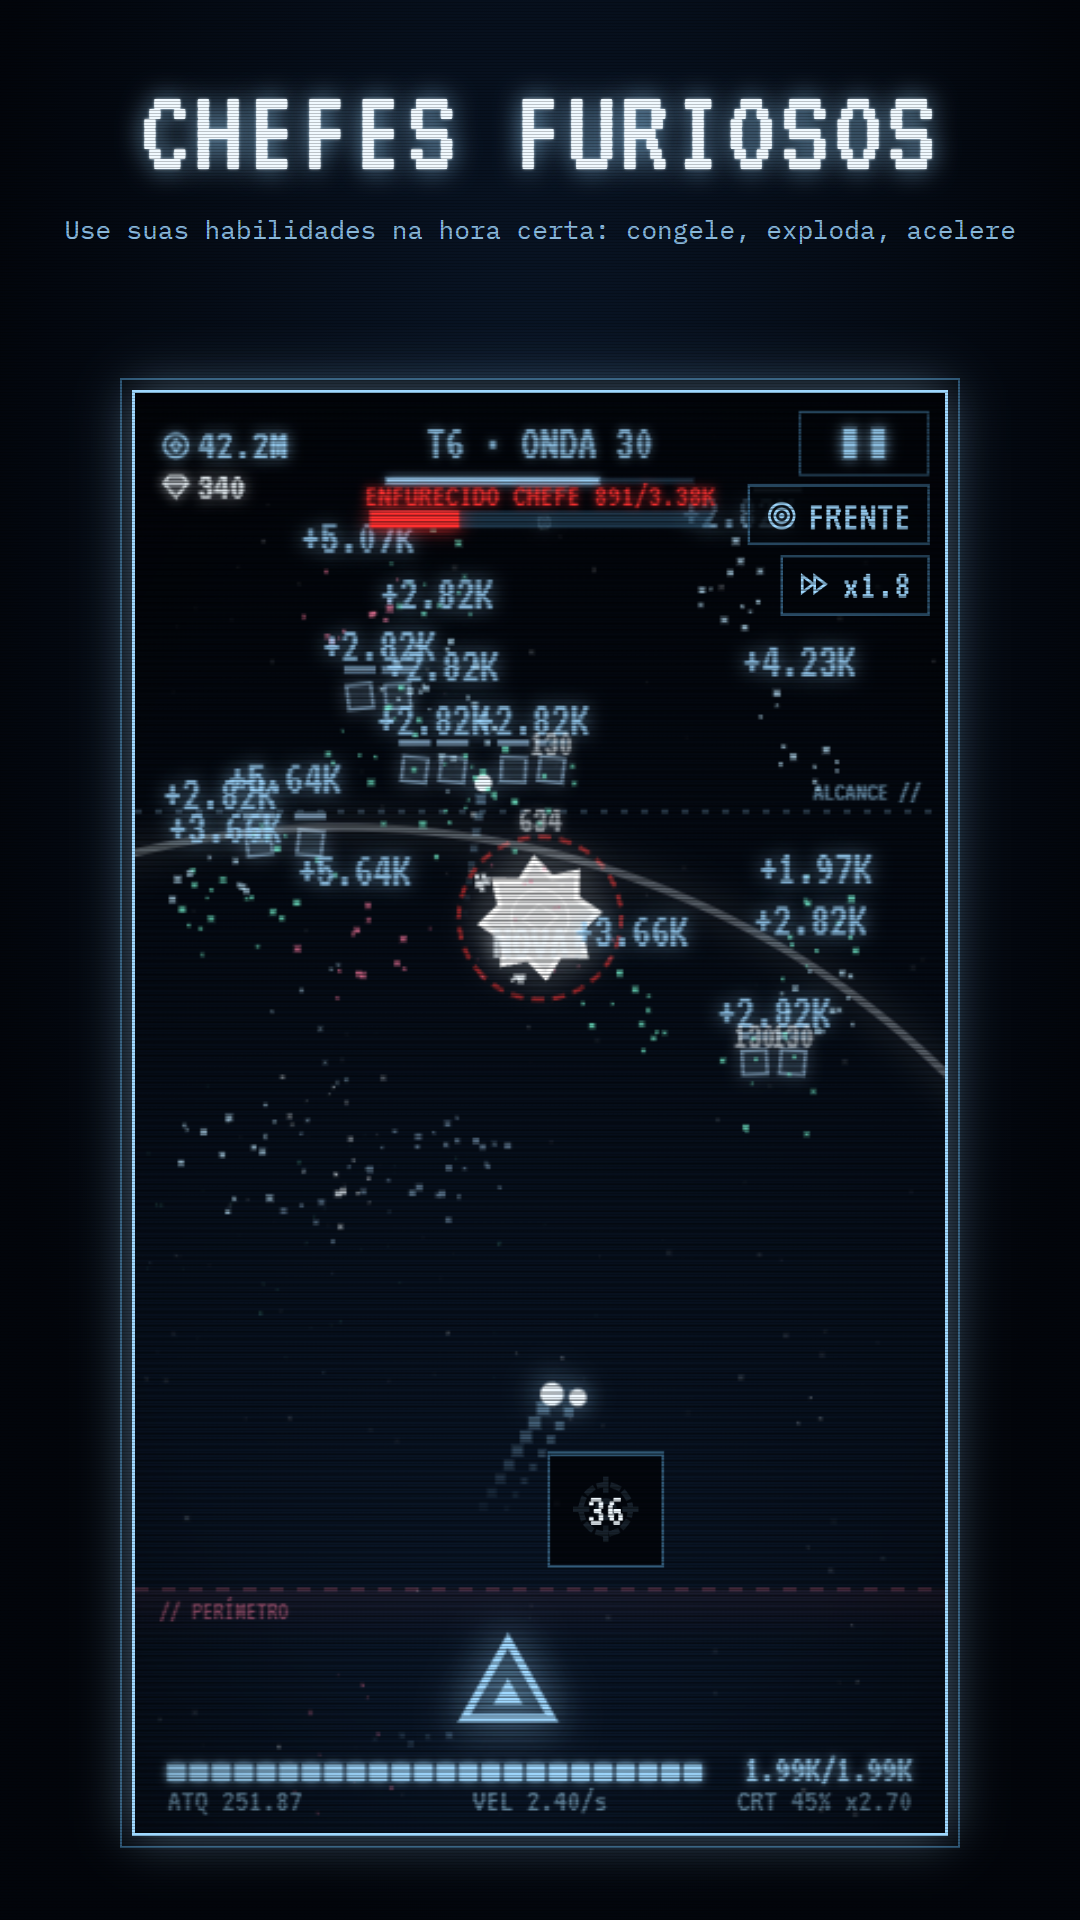
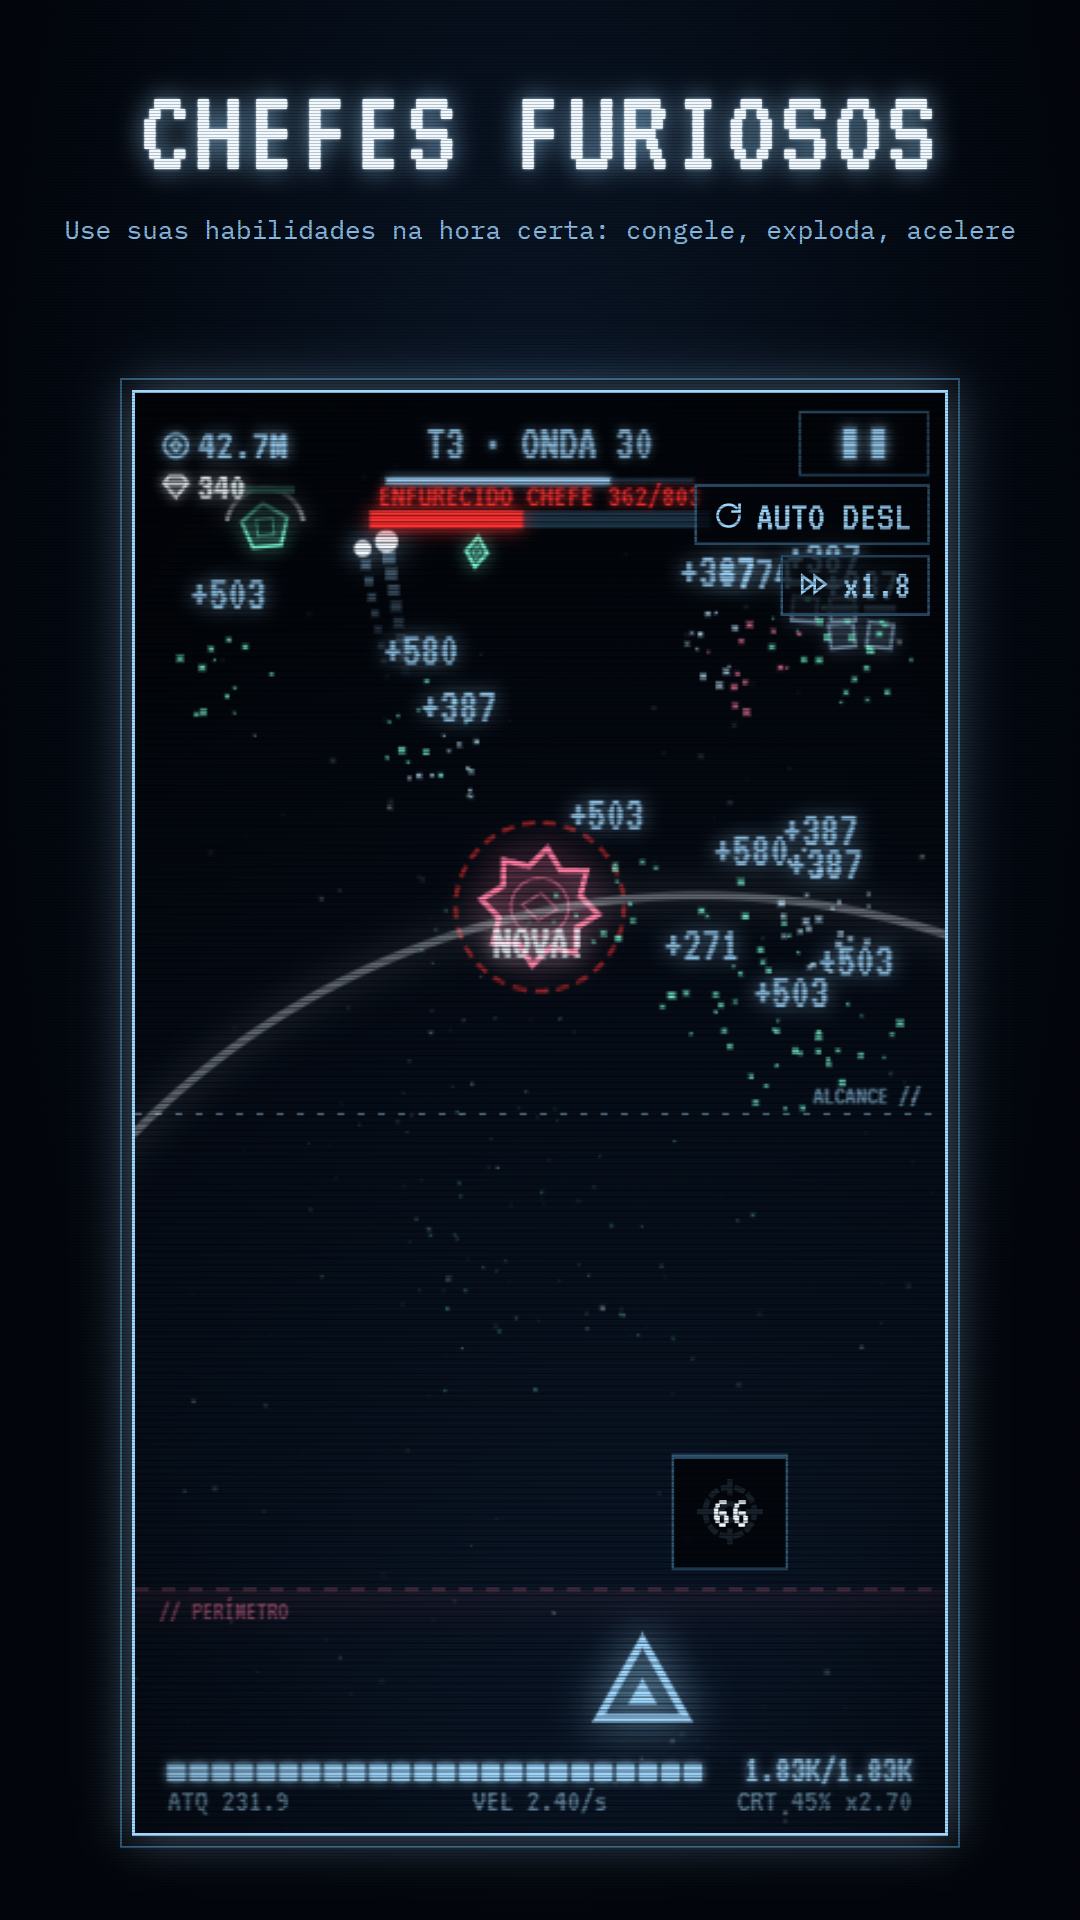
Store art for 0.7.0: shots staged at Tier 3 (Tier 6 is far too hard after the tier rework), boss kept alive for its shot; listing: parry instead of dodge, AUTO RETRY instead of the removed target priority

diff --git a/tools/make-store-art.js b/tools/make-store-art.js
@@ -15,8 +15,8 @@ const LANGS=process.argv.slice(2).length?process.argv.slice(2):Object.keys(TEXT)
 const FONT_CSS=(fs.readFileSync(path.join(root,'index.html'),'utf8').match(/@font-face\{[^}]+\}/g)||[]).join('\n');
 const HINTS={menu:1,start:1,breach:1,drops:1,hud:1,shop:1,tattoo:1,quests:1,tier:1,target:1,active:1};
 // a mid-game player: a few tiers in, some tattoos, an active build
-const SAVE={coins:4.2e7,gems:340,tier:6,tierBest:{1:78,2:62,3:51,4:44,5:36,6:21},tatSlots:4,themesOwned:['ice'],
-  perm:{damage:520,fireRate:70,maxHp:480,regen:380,defense:180,thorns:90,critChance:90,critMult:60,multishot:70,bounce:40,range:35,
+const SAVE={coins:4.2e7,gems:340,tier:3,tierBest:{1:80,2:66,3:38},tatSlots:4,themesOwned:['ice'],
+  perm:{damage:520,fireRate:70,maxHp:480,regen:380,defense:180,thorns:90,critChance:90,critMult:60,multishot:70,bounce:40,cooldown:30,
     pierce:20,coinMult:150,lootChance:60,bounty:40,gameSpeed:8,offline:10},
   tatCol:{attack_power:{lv:5,copies:2},twin:{lv:3,copies:1},nova:{lv:4,copies:0},arc:{lv:2,copies:3},crit_mult:{lv:4,copies:1},
     max_hp:{lv:5,copies:0},regen:{lv:3,copies:2},coin_mult:{lv:4,copies:1},frost:{lv:2,copies:0},aegis:{lv:1,copies:0},thorns:{lv:3,copies:0}},
@@ -50,9 +50,9 @@ const THEME_FAN=['amber','green','pink'];   // left, centre, right on the themes
     await seed();await p.click('#mPlay');await clean();await p.evaluate(()=>{waveNum=24;waveTimer=.01;});
     await sleep(6000);await waitField(14,15000);await clean();await sleep(350);await shot('run');
     await p.evaluate(()=>{waveNum=29;waveTimer=.01;});
-    await p.evaluate(()=>new Promise(r=>{const t0=Date.now(),f=()=>{pickups=[];const bo=enemies.find(e=>e.boss);if((bo&&bo.y>GH*.3)||Date.now()-t0>20000)r();else setTimeout(f,100);};f();}));
+    await p.evaluate(()=>new Promise(r=>{const t0=Date.now(),f=()=>{pickups=[];const bo=enemies.find(e=>e.boss);if(bo){bo.hp=bo.maxHp;waveTimer=Math.max(waveTimer,10);}if((bo&&bo.y>GH*.3)||Date.now()-t0>20000)r();else setTimeout(f,100);};f();}));
     // the boss at half health, caught in a NOVA blast
-    await p.evaluate(()=>{const bo=enemies.find(e=>e.boss);if(bo){bo.hp=bo.maxHp*.45;}actCD={};});await sleep(700);await clean();
+    await p.evaluate(()=>{const bo=enemies.find(e=>e.boss);if(bo){bo.hp=bo.maxHp*100;}actCD={};waveTimer=Math.max(waveTimer,10);});await sleep(700);await clean();
     // the blast must not kill the boss: put its health back right after
     await p.evaluate(()=>{const bo=enemies.find(e=>e.boss);if(bo)bo.hp=bo.maxHp*100;useActive('nova');if(bo)bo.hp=bo.maxHp*.45;textParticles=textParticles.slice(-1);});
     await p.evaluate(()=>{const t=$('toast');t.className='';$('hint').classList.remove('show');});

diff --git a/tools/store-text.js b/tools/store-text.js
@@ -6,7 +6,7 @@ module.exports={
     boss:  ['ENRAGED BOSSES','Time your abilities: freeze, blast, overdrive'],
     gacha: ['INK 31 TATTOOS','Fuse duplicates up to level 7'],
     tattoo:['BUILD IT YOUR WAY','Crits, ricochet, lightning, thorns: every build works'],
-    shop:  ['UPGRADE EVERYTHING','Damage, fire rate, armor, dodge and more'],
+    shop:  ['UPGRADE EVERYTHING','Damage, fire rate, armor, parry and more'],
     weekly:['NEW CHALLENGE EVERY WEEK','Rule-changing mutators and gem rewards'],
     themes:['12 RETRO THEMES','Scanlines, phosphor glow, smooth on old phones'],
     end:   'PLAY ANYWHERE · OFFLINE OK',
@@ -16,7 +16,7 @@ module.exports={
     boss:  ['ÖFKELİ BOSSLAR','Yeteneklerini zamanla: dondur, patlat, hızlan'],
     gacha: ['31 DÖVME ÇAĞIR','Kopyaları birleştir, 7. seviyeye kadar yükselt'],
     tattoo:['TARZINI SEN SEÇ','Kritik, sekme, şimşek, diken: her build işe yarar'],
-    shop:  ['HER ŞEYİ GELİŞTİR','Hasar, atış hızı, zırh, kaçınma ve fazlası'],
+    shop:  ['HER ŞEYİ GELİŞTİR','Hasar, atış hızı, zırh, savuşturma ve fazlası'],
     weekly:['HER HAFTA YENİ MEYDAN OKUMA','Kuralları değiştiren modlar ve elmas ödülleri'],
     themes:['12 RETRO TEMA','Tarama çizgileri, fosfor parıltısı, eski telefonlarda akıcı'],
     end:   'HER YERDE · İNTERNETSİZ OYNA',
@@ -26,7 +26,7 @@ module.exports={
     boss:  ['JEFES FURIOSOS','Usa tus habilidades a tiempo: congela, revienta, acelera'],
     gacha: ['INVOCA 31 TATUAJES','Fusiona duplicados hasta el nivel 7'],
     tattoo:['CREA TU BUILD','Críticos, rebotes, rayos, espinas: todo build funciona'],
-    shop:  ['MEJÓRALO TODO','Daño, cadencia, blindaje, esquiva y más'],
+    shop:  ['MEJÓRALO TODO','Daño, cadencia, blindaje, parada y más'],
     weekly:['UN RETO NUEVO CADA SEMANA','Mutadores que cambian las reglas y premios en gemas'],
     themes:['12 TEMAS RETRO','Scanlines, brillo de fósforo, fluido en móviles viejos'],
     end:   'JUEGA DONDE SEA · OFFLINE',
@@ -36,7 +36,7 @@ module.exports={
     boss:  ['CHEFES FURIOSOS','Use suas habilidades na hora certa: congele, exploda, acelere'],
     gacha: ['INVOQUE 31 TATUAGENS','Funda duplicatas até o nível 7'],
     tattoo:['MONTE SUA BUILD','Críticos, ricochete, raios, espinhos: toda build funciona'],
-    shop:  ['MELHORE TUDO','Dano, cadência, armadura, esquiva e mais'],
+    shop:  ['MELHORE TUDO','Dano, cadência, armadura, aparo e mais'],
     weekly:['UM DESAFIO NOVO POR SEMANA','Mutadores que mudam as regras e prêmios em gemas'],
     themes:['12 TEMAS RETRÔ','Scanlines, brilho de fósforo, leve em celulares antigos'],
     end:   'JOGUE ONDE QUISER · OFFLINE',

diff --git a/store/listing.md b/store/listing.md
@@ -29,7 +29,7 @@ Idle tower defense on a retro CRT terminal: you are the last vertex, one glowing
 Your triangle aims and fires on its own; you decide how it grows. Play actively or put the phone down and let it run.
 
 ▸ BUILD IT YOUR WAY
-Pour coins into permanent upgrades: damage, fire rate, crits, multishot, ricochet, pierce, armor, thorns, regen, dodge, slow, knockback and more. A wall of thorns and armor, a crit cannon, a swarm of bouncing bullets — every build is viable.
+Pour coins into permanent upgrades: damage, fire rate, crits, multishot, ricochet, pierce, armor, thorns, regen, parry, slow, knockback and more. A wall of thorns and armor, a crit cannon, a swarm of bouncing bullets — every build is viable.
 
 ▸ TATTOOS
 Ink 31 tattoos across four rarities and fuse duplicates up to level 7. Passive tattoos shape your build; active ones add a button to the battle: freeze the field, blast every enemy, overdrive your fire rate, turn kills into gold or throw bombs (logic, goo, virus) exactly where you tap; others shatter frozen enemies into chain reactions. The odds are shown on screen and an epic is guaranteed within 50 summons.
@@ -41,7 +41,7 @@ Fight through 30 tiers of rising danger: runners, tanks, splitters, shielded war
 Every week brings two new rule-changing mutators — horde, glass cannon, boss rush, titans and more — with gem rewards for the waves you reach.
 
 ▸ PLAY ACTIVE OR IDLE
-Choose your target priority, speed up the game, time your abilities — or walk away. Idle income keeps earning while you're away, quests refresh through the day and achievements reward every milestone.
+Speed up the game, time your abilities — or switch on AUTO RETRY and walk away. Idle income keeps earning while you're away, quests refresh through the day and achievements reward every milestone.
 
 ▸ RETRO TERMINAL LOOK
 Scanlines, phosphor glow and 12 color themes, from ice blue to amber, green P1 and hot pink. Runs smoothly on older phones with three graphics levels, and works offline.
@@ -70,7 +70,7 @@ Retro bir CRT terminalinde idle kule savunma: sen son köşesin, ekranın altın
 Üçgenin kendi kendine nişan alıp ateş eder; nasıl güçleneceğine sen karar verirsin. İster aktif oyna, ister telefonu bırak, oyun kendi aksın.
 
 ▸ TARZINI SEN SEÇ
-Altınlarını kalıcı geliştirmelere yatır: hasar, atış hızı, kritik, çoklu atış, sekme, delme, zırh, diken, can yenileme, kaçınma, yavaşlatma, geri itme ve fazlası. Diken ve zırhtan bir duvar, bir kritik topu, seken mermi sürüsü — her build işe yarar.
+Altınlarını kalıcı geliştirmelere yatır: hasar, atış hızı, kritik, çoklu atış, sekme, delme, zırh, diken, can yenileme, savuşturma, yavaşlatma, geri itme ve fazlası. Diken ve zırhtan bir duvar, bir kritik topu, seken mermi sürüsü — her build işe yarar.
 
 ▸ DÖVMELER
 Dört nadirlikte 31 dövme çağır, kopyaları birleştirip 7. seviyeye kadar yükselt. Pasif dövmeler build'ini şekillendirir; aktif olanlar savaşa bir buton ekler: sahayı dondur, tüm düşmanları patlat, atış hızını uçur, öldürmeleri altına çevir ya da dokunduğun yere bomba at (mantık, çamur, virüs). Bazıları donmuş düşmanları zincirleme patlamalarla parçalar. Oranlar ekranda yazar ve 50 çağırma içinde bir epik garantidir.
@@ -82,7 +82,7 @@ Giderek zorlaşan 30 tier boyunca savaş: koşucular, tanklar, bölünenler, kal
 Her hafta kuralları değiştiren iki yeni mod gelir — sürü, cam top, boss akını, devler ve fazlası — ulaştığın dalgalara göre elmas ödülleriyle.
 
 ▸ AKTİF YA DA IDLE
-Hedef önceliğini seç, oyunu hızlandır, yeteneklerini zamanla — ya da bırak gitsin. Sen yokken idle gelir birikmeye devam eder, görevler gün boyunca yenilenir, başarımlar her adımı ödüllendirir.
+Oyunu hızlandır, yeteneklerini zamanla — ya da OTO TEKRAR'ı aç ve bırak gitsin. Sen yokken idle gelir birikmeye devam eder, görevler gün boyunca yenilenir, başarımlar her adımı ödüllendirir.
 
 ▸ RETRO TERMİNAL GÖRÜNÜMÜ
 Tarama çizgileri, fosfor parıltısı ve buz mavisinden kehribara, yeşil P1'den neon pembeye 12 renk teması. Üç grafik seviyesiyle eski telefonlarda da akıcı çalışır, internetsiz oynanır.
@@ -111,7 +111,7 @@ Defensa de torres idle en una terminal CRT retro: eres el último vértice, un t
 Tu triángulo apunta y dispara solo; tú decides cómo crece. Juega de forma activa o deja el móvil y que siga solo.
 
 ▸ CREA TU BUILD
-Invierte monedas en mejoras permanentes: daño, cadencia, críticos, disparo múltiple, rebote, perforación, blindaje, espinas, regeneración, esquiva, ralentización, empuje y más. Un muro de espinas y blindaje, un cañón de críticos, un enjambre de balas que rebotan: todo build funciona.
+Invierte monedas en mejoras permanentes: daño, cadencia, críticos, disparo múltiple, rebote, perforación, blindaje, espinas, regeneración, parada, ralentización, empuje y más. Un muro de espinas y blindaje, un cañón de críticos, un enjambre de balas que rebotan: todo build funciona.
 
 ▸ TATUAJES
 Invoca 31 tatuajes de cuatro rarezas y fusiona duplicados hasta el nivel 7. Los pasivos dan forma a tu build; los activos añaden un botón a la batalla: congela el campo, revienta a todos los enemigos, dispara a toda velocidad, convierte las bajas en oro o lanza bombas (lógica, viscosa, virus) justo donde toques. Otros hacen estallar a los enemigos congelados en reacciones en cadena. Las probabilidades se muestran en pantalla y hay un épico garantizado en 50 invocaciones.
@@ -123,7 +123,7 @@ Lucha a través de 30 tiers cada vez más peligrosos: corredores, tanques, divis
 Cada semana llegan dos mutadores nuevos que cambian las reglas — horda, cañón de cristal, oleada de jefes, titanes y más — con premios en gemas según la oleada que alcances.
 
 ▸ ACTIVO O IDLE
-Elige la prioridad de objetivo, acelera el juego, usa tus habilidades en el momento justo — o vete. Los ingresos idle siguen sumando mientras no estás, las misiones se renuevan durante el día y los logros premian cada hito.
+Acelera el juego, usa tus habilidades en el momento justo — o activa REINTENTO AUTO y vete. Los ingresos idle siguen sumando mientras no estás, las misiones se renuevan durante el día y los logros premian cada hito.
 
 ▸ ESTILO DE TERMINAL RETRO
 Scanlines, brillo de fósforo y 12 temas de color, del azul hielo al ámbar, el verde P1 y el rosa neón. Funciona fluido en móviles antiguos con tres niveles gráficos y se juega sin conexión.
@@ -152,7 +152,7 @@ Defesa de torre idle num terminal CRT retrô: você é o último vértice, um tr
 Seu triângulo mira e atira sozinho; você decide como ele cresce. Jogue de forma ativa ou largue o celular e deixe rolar.
 
 ▸ MONTE SUA BUILD
-Invista moedas em melhorias permanentes: dano, cadência, críticos, tiro múltiplo, ricochete, perfuração, armadura, espinhos, regeneração, esquiva, lentidão, empurrão e mais. Um muro de espinhos e armadura, um canhão de críticos, um enxame de balas quicando: toda build funciona.
+Invista moedas em melhorias permanentes: dano, cadência, críticos, tiro múltiplo, ricochete, perfuração, armadura, espinhos, regeneração, aparo, lentidão, empurrão e mais. Um muro de espinhos e armadura, um canhão de críticos, um enxame de balas quicando: toda build funciona.
 
 ▸ TATUAGENS
 Invoque 31 tatuagens de quatro raridades e funda duplicatas até o nível 7. As passivas moldam sua build; as ativas colocam um botão na batalha: congele o campo, exploda todos os inimigos, acelere seus disparos, transforme abates em ouro ou lance bombas (lógica, viscosa, vírus) bem onde você tocar. Outras estilhaçam inimigos congelados em reações em cadeia. As chances aparecem na tela e uma épica é garantida em até 50 invocações.
@@ -164,7 +164,7 @@ Lute por 30 tiers cada vez mais perigosos: corredores, tanques, divisores, guard
 Toda semana chegam dois mutadores novos que mudam as regras — horda, canhão de vidro, rush de chefes, titãs e mais — com prêmios em gemas pelas ondas que você alcançar.
 
 ▸ ATIVO OU IDLE
-Escolha a prioridade de alvo, acelere o jogo, use suas habilidades na hora certa — ou saia. A renda idle continua rendendo enquanto você está fora, as missões se renovam ao longo do dia e as conquistas recompensam cada marco.
+Acelere o jogo, use suas habilidades na hora certa — ou ative REPETIR AUTO e saia. A renda idle continua rendendo enquanto você está fora, as missões se renovam ao longo do dia e as conquistas recompensam cada marco.
 
 ▸ VISUAL DE TERMINAL RETRÔ
 Scanlines, brilho de fósforo e 12 temas de cor, do azul gelo ao âmbar, verde P1 e rosa neon. Roda liso em celulares antigos com três níveis gráficos e funciona offline.
